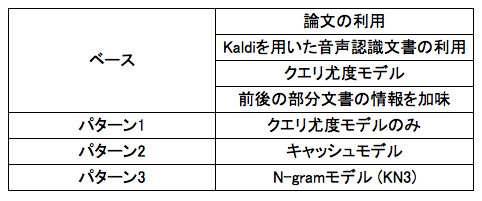
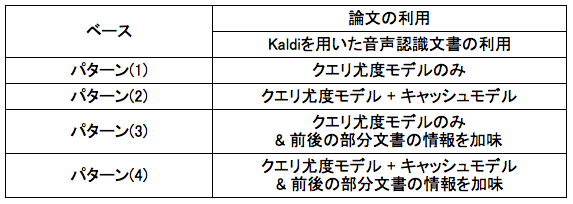
論文の目的を作成

diff --git a/chapter6.tex b/chapter6.tex
@@ -4,35 +4,29 @@
 \chapter{結論} 
 \section{まとめ}
 本研究では，文書検索において検索精度に影響を及ぼす要因を4つ取りあげ，それらについて分析を行った．
-まずTF-IDFにおけるTFに関しては，BM25のようにTFを文書長による正規化を行うことにより，精度を向上させることができた．
-これは文書長が長い文書は，同じ単語が複数回出現する場合が多く，TF値が過剰に高くなる問題を解決できたと言える．
-一方でlogを用いたTFの出現回数に応じた正規化は，従来のTF-IDF法とほぼ同等の性能を示したが，BM25同様に，
-文書長が短い文書を正解とするクエリにおいて，精度が高くなる傾向にあった．
 
-word2vecを用いた文書検索法は，従来法のTF-IDFに精度では劣ったが，一部のクエリにおいてTF-IDFを大きく上回る精度を示した．
-これは，今回のword2vecの手法では，単語の意味的情報を文書検索に活かしきれていないが，
-単語ベクトルから文書ベクトルに圧縮する手法を工夫することで，TF-IDFの精度を大きく改善する可能性があると言える．
-また，TF-IDFとword2vecを用いた単語の意味的情報を加味した文書検索法を組み合わせることで，更なる精度の向上を図ることができると考えられる．
+まず，音声認識精度と検索精度に関しては，従来から使用しているJuliusによる音声認識結果より，高性能な音声認識システムであるKaldiを用いた音声認識結果を用いたときの方が，検索精度が上昇する事が確認できた．
 
-また部分文書検索の際に文書全体の情報を加味することは，精度を大幅に向上することを確認した．
-今回のSpokenQuery\&Docは，1つのクエリに対する正解文書が，1つの全体文書に固まっていることが多かったため，
-特に効果が大きかったと考えられる．
-今回は重みパラメータ$\alpha$が0.9の時に最大値を取ったが，この値は検索対象文書やタスクによって異なると考えられる．
+クエリの関連文書を用いたクエリ尤度モデルの拡張では，論文を用いたときに，MAP値の向上が見られた．しかし，Web文書を用いたときは，MAP値にあまり変化が見られなかった．これは，Web文書がNTCIR11のクエリに対して，スムージングを行なえなかったためであると推察できる．論文を用いると，専門単語も広く言語モデルとして含められるため，スムージングできる可能性が高くなり，MAP値が上昇したのだと考えられる．
 
-最後に音声文書検索の際に音声認識誤りを棄却する場合は，検索に有用な語を誤って棄却した際に，精度が劣化してしまうことが判明した．
-これは音声認識誤り語の棄却は成功しているが，同時に検索に有用な語を切り捨ててしまっていることが問題であった．
-一方で本研究では，$sumPMI$が負の単語を認識誤り単語として棄却しているが，この閾値を変化させることで，
-検索に重要な語を残しつつ，認識誤り単語を棄却できる可能性があると言える．
+次に，前後の部分文書の情報の加味では，精度を大幅に向上することを確認した．今回のSpokenQuery\&Docは，1つのクエリに対する正解文書が，1箇所に固まっていることが多かったため，特に効果が大きかったと考えられる．
+
+また，
+
+最後に
 
 \section{今後の課題}
-今後の課題としてまず，単語の意味的情報を，検索精度が向上するように従来の検索法に組み合わせることが挙げられる．
-word2vecを用いた文書検索法は，TF-IDFの検索精度が高くないクエリにおいて大きく精度を向上させる傾向があったため，
-互いの欠点を補い合うような組み合わせ方をすることで，精度向上に繋がるのではないかと考えられる．
+今後の課題としてまず，ディリクレスムージング時のパラメータの設定があげられる．今回は人手で調整し，MAP値が高くなる値を設定したが，今後は尤度関数を設定し，最適化することによりパラメータを調節したい．
 
-音声認識誤りの棄却において，棄却の閾値を変化させた場合にどのように精度が変化するのかを確認しなくてはならない．
-検索に有用な語を棄却してしまったため，閾値を負に設定することで，棄却の厳しさを緩和させることができる．
-また$sumPMI$が負になりやすい語に，何かしらの傾向が見られないか調査することで，検索に有用な語を棄却する問題を解決できると期待できる．
+TODO: その他, RNNとかKNが上手く行ってないところ，論文の精度が向上しないところ、キャッシュモデルとスライド統合が競合してしまっているところ
 
-最後に，本研究で取り上げた手法を複数組み合わせることで，検索精度がどのように変化するか確認することが重要である．
-本研究では要素を1つ1つ取り上げ，それぞれを独立に実験した．
-一方でこれらの手法は組み合わせることができる．これらの手法を組み合わせることで，更なる精度の向上が期待できる．
+% 単語の意味的情報を，検索精度が向上するように従来の検索法に組み合わせることが挙げられる． word2vecを用いた文書検索法は，TF-IDFの検索精度が高くないクエリにおいて大きく精度を向上させる傾向があったため，
+% 互いの欠点を補い合うような組み合わせ方をすることで，精度向上に繋がるのではないかと考えられる．
+
+% 音声認識誤りの棄却において，棄却の閾値を変化させた場合にどのように精度が変化するのかを確認しなくてはならない．
+% 検索に有用な語を棄却してしまったため，閾値を負に設定することで，棄却の厳しさを緩和させることができる．
+% また$sumPMI$が負になりやすい語に，何かしらの傾向が見られないか調査することで，検索に有用な語を棄却する問題を解決できると期待できる．
+
+% 最後に，本研究で取り上げた手法を複数組み合わせることで，検索精度がどのように変化するか確認することが重要である．
+% 本研究では要素を1つ1つ取り上げ，それぞれを独立に実験した．
+% 一方でこれらの手法は組み合わせることができる．これらの手法を組み合わせることで，更なる精度の向上が期待できる．

diff --git a/thanks.tex b/thanks.tex
@@ -2,39 +2,39 @@
 % 上記のことを満たしながら，目次は出す #-> \addcontentsline
 \chapter*{謝辞}
 \addcontentsline{toc}{chapter}{謝辞}
-本稿をまとめるにあたり，多くの方々のお世話になりました．以下に感謝の意を表します．\\
+% 本稿をまとめるにあたり，多くの方々のお世話になりました．以下に感謝の意を表します．\\
 
-% 先生方
-本研究のテーマを与えてくださり，温かいご指導を賜った，速水 悟教授，田村 哲嗣助教に深く感謝致します．
-速水 悟教授には，研究の方針に関して普段から厳しく，かつ的確なご指導を頂きました．
-田村 哲嗣助教には，研究の方針はもちろんのこと，研究の進捗に気を配って頂きました．
-お二人のバックアップがなければ，本稿をまとめられることはありませんでした．\\
+% % 先生方
+% 本研究のテーマを与えてくださり，温かいご指導を賜った，速水 悟教授，田村 哲嗣助教に深く感謝致します．
+% 速水 悟教授には，研究の方針に関して普段から厳しく，かつ的確なご指導を頂きました．
+% 田村 哲嗣助教には，研究の方針はもちろんのこと，研究の進捗に気を配って頂きました．
+% お二人のバックアップがなければ，本稿をまとめられることはありませんでした．\\
 
-% 研究に深く関わってくれた人
-次に研究の過程で，度々議論を交わし意見を頂きました竹原 正矩氏，川\UTF{7028} 徹也氏，田口 拓明氏，中嶋 航大氏に感謝の意を表します．
-皆様には先生方とのミーティングの合間に，研究の結果について深く議論を交わし，多くのアドバイスを頂きました．
-特にNTCIRプロジェクトのタスク参加者として実験プログラムの開発，及び修正を手伝い，実験の協力をして頂きました田口 拓明氏，
-同じく実験の協力をして頂きました中嶋 航大氏には，より一層の感謝の意を表します．
-% 長谷川先輩
-また音声文書検索の研究の先駆者であるOBの長谷川 貴一氏には，多忙の中研究室にお越し頂き，
-文書検索に関する多くのアドバイスを頂きました．ここに感謝の意を表します．\\
+% % 研究に深く関わってくれた人
+% 次に研究の過程で，度々議論を交わし意見を頂きました竹原 正矩氏，川\UTF{7028} 徹也氏，田口 拓明氏，中嶋 航大氏に感謝の意を表します．
+% 皆様には先生方とのミーティングの合間に，研究の結果について深く議論を交わし，多くのアドバイスを頂きました．
+% 特にNTCIRプロジェクトのタスク参加者として実験プログラムの開発，及び修正を手伝い，実験の協力をして頂きました田口 拓明氏，
+% 同じく実験の協力をして頂きました中嶋 航大氏には，より一層の感謝の意を表します．
+% % 長谷川先輩
+% また音声文書検索の研究の先駆者であるOBの長谷川 貴一氏には，多忙の中研究室にお越し頂き，
+% 文書検索に関する多くのアドバイスを頂きました．ここに感謝の意を表します．\\
 
-% 研究室5階メンバー
-速水・田村研究室E522のメンバーの
-森長 夕貴氏，臼田 寛明氏，加島 卓磨氏，田口 拓明氏，絹田 卓也氏，井端 ひかり氏，葛谷 恵美氏，中嶋 航大氏には心より感謝致します．
-出来のいい先輩ではありませんでしたが，本稿をまとめられるのは皆様の支えがあるからこそと認識しています．\\
-また同じ速水・田村研究室の現役の学生である，
-竹原 正矩氏，
-宇野 太久哉氏，河\UTF{FA11} 卓也氏，川\UTF{7028} 徹也氏，世古 拓海氏， 川嶋 大義氏，野尻 弘也氏，
-鵜飼 和渡氏，廣瀬 彩恵氏，宮川 加奈子氏には，週二回のゼミで研究に対して意見を頂いたのみならず，
-普段の研究活動においても多くのご支援を頂きました．
-ここに謝意を示します．\\
+% % 研究室5階メンバー
+% 速水・田村研究室E522のメンバーの
+% 森長 夕貴氏，臼田 寛明氏，加島 卓磨氏，田口 拓明氏，絹田 卓也氏，井端 ひかり氏，葛谷 恵美氏，中嶋 航大氏には心より感謝致します．
+% 出来のいい先輩ではありませんでしたが，本稿をまとめられるのは皆様の支えがあるからこそと認識しています．\\
+% また同じ速水・田村研究室の現役の学生である，
+% 竹原 正矩氏，
+% 宇野 太久哉氏，河\UTF{FA11} 卓也氏，川\UTF{7028} 徹也氏，世古 拓海氏， 川嶋 大義氏，野尻 弘也氏，
+% 鵜飼 和渡氏，廣瀬 彩恵氏，宮川 加奈子氏には，週二回のゼミで研究に対して意見を頂いたのみならず，
+% 普段の研究活動においても多くのご支援を頂きました．
+% ここに謝意を示します．\\
 
-% 秋葉先生，南條先生
-豊橋技術科学大学の秋葉 友良先生には，NTCIR11 SpokenQuery\&Docのタスクにおいて貴重なテストコレクションを頂いたのみならず，
-NTCIR11 カンファレンスの場において貴重な意見を頂きました．
-また同様に龍谷大学の南條 浩輝先生とは，NTCIR11 カンファレンスの場において深い議論を交わし合いました．
-お二人に感謝致します．\\
+% % 秋葉先生，南條先生
+% 豊橋技術科学大学の秋葉 友良先生には，NTCIR11 SpokenQuery\&Docのタスクにおいて貴重なテストコレクションを頂いたのみならず，
+% NTCIR11 カンファレンスの場において貴重な意見を頂きました．
+% また同様に龍谷大学の南條 浩輝先生とは，NTCIR11 カンファレンスの場において深い議論を交わし合いました．
+% お二人に感謝致します．\\
 
 % ソフトウェア開発
 % 最後に，文書検索のシステム構築にあたり，形態素解析エンジンの部分には

diff --git a/recognise_method.tex b/recognise_method.tex
@@ -8,13 +8,12 @@
 
 % 参考: http://www.ar.media.kyoto-u.ac.jp/lab/project/paper/RI-HIS09.pdf
 \section{Julius}
-Juliusは大語彙連続音声認識を実行するソフトウェアである．これまでの音声認識の研究で培われてきたアルゴリズムや計算効率化手法をおよそ実装しており，高精度かつ効率よく認識処理を行うことができる．
-juliusの最も大きな特徴は汎用性・可搬性にある．音響モデルや言語モデルの仕様は標準的なフォーマットを採用しており，置き換えたり修正したりすることが容易である．これにより，大語彙のディクテーションから小語彙の数字認識まで，様々な使用環境や目的に応じたシステムを構築することが簡単にできる．また言語モデルも，大規模な統計モデルである単語n-gram，文パターンを人手で与える記述文法，辞書のみを用いる単語認識といったように多様な形式をサポートしており，使用環境に応じて適切なモデルを使い分けることができる．さらに，ソースコードが公開されているので，ユーザ独自の修正や拡張も可能である．
+Juliusの最も大きな特徴は汎用性・可搬性にある．音響モデルや言語モデルの仕様は標準的なフォーマットを採用しており，置き換えたり修正したりすることが容易である．これにより，大語彙のディクテーションから小語彙の数字認識まで，様々な使用環境や目的に応じたシステムを構築することが簡単にできる．また言語モデルも，大規模な統計モデルである単語n-gram，文パターンを人手で与える記述文法，辞書のみを用いる単語認識といったように多様な形式をサポートしており，使用環境に応じて適切なモデルを使い分けることができる．さらに，ソースコードが公開されているので，ユーザ独自の修正や拡張も可能である．
 
 % TODO: 参考文献 
 % 音響学会の論文参考
 \section{Kaldi}
-Kaldiはディープニューラルネットワーク(DNN)ベースの大語彙音声認識に対応した音声認識ツールキットであり，現在主に欧米において精力的に開発が進められ，音声認識研究において世界中に普及しつつある[??]Kaldiはオープンソースの音声認識ツールキットであり,C++で書かれたKaldi独自のコマンドプログラム, OpenFst等の既存ツールの自動インストーラ,各種コーパスを用いて音声認識システムの構築および認識実験を行うレシピなどにより構成されている.最新の認識技術が多く取り込まれており,高性能な認識システムの構築が可能となっている.
+Kaldiはディープニューラルネットワーク(DNN)ベースの大語彙音声認識に対応した音声認識ツールキットであり，現在主に欧米において精力的に開発が進められ，音声認識研究において世界中に普及しつつある[??]. Kaldiはオープンソースの音声認識ツールキットであり,C++で書かれたKaldi独自のコマンドプログラム, OpenFst等の既存ツールの自動インストーラ,各種コーパスを用いて音声認識システムの構築および認識実験を行うレシピなどにより構成されている.最新の認識技術が多く取り込まれており,高性能な認識システムの構築が可能となっている.
 Kaldiでは音声認識研究で用いられる主要なコーパスに対して，学習データから音声認識システムを構築し認識性能を評価するまでの全プロセスを自動化したスクリプトが用意されている．これらのスクリプトは，レシピと呼ばれている．このレシピの中に、学習・評価データとして,日本語 話し言葉コーパス(CSJ) [??] に対応した，日本語のための音声認識レシピが公開されている.このレシピは，CSJ の標準評価セットを用いた認識実験において,全評価セットの平均で90.6\%と高い認識精度を実現している. NTCIR12では、このレシピを利用し，音声認識した結果の文書を提供している．
 
 \section{評価実験}

diff --git a/integration.tex b/integration.tex
@@ -1,16 +1,8 @@
-\chapter{結果統合}
+\chapter{提案手法の統合}
 
-\section{a}
-% 有効な結果を示した
-% kaldi
-% 論文
-% キャッシュモデル or N-gram特徴量
-% 前後の部分文書の情報の加味
-% を利用して最大値を試す
+\section{提案手法}
 
-% TODO: 前章 = N章と名義した方が良い
-
-前章で検索性能に有効な結果を示した，論文の利用・Kaldiを用いた検索文書の利用・キャッシュモデルとN-gram特徴量の加味・前後の部分文書の情報を加味の手法を統合し，更なる検索精度の改善を行う．
+これまでに説明してきた手法の中で，検索性能の向上に有効な結果を示したものを統合し，検索精度の更なる向上を図る．検索性能の向上に有効な結果を示したものとして，論文の利用・Kaldiを用いた検索文書の利用・キャッシュモデル・前後の部分文書の情報を加味の手法があり，これらを統合し，検索精度の変化を分析する．
 
 \subsection{実験条件}
 実験条件を表\ref{t_ex_patern}に示す．
@@ -22,4 +14,8 @@
     \label{t_ex_patern}
 \end{table}
 
-基本的に論文の利用・Kaldiを用いた検索文書の利用・・前後の部分文書の情報を加味・クエリ尤度モデルを利用し，パターン1 クエリ尤度モデルのみ, パターン2 キャッシュモデル, パターン3 N-gramモデルを変化させたときのMAP値を算出し，分析する．また，パターン3のN-gramモデルのスムージングはKneser-Ney スムージングを利用し，N-gramのNは3とした．
+実験は，表\ref{t_condition1}と同様に，NTCIR12 SpokenQuery\&Doc Formal-run の SQSCR SGS retrieval条件で行った．
+基本的に，論文の利用とKaldiを用いた検索文書を用い，パターン(1) クエリ尤度モデルのみ, パターン(2) キャッシュモデルの2つのパターンについて，変化させたときのMAP値を算出する．
+また，2つのパターンのそれぞれに対し，前後の部分文書の情報を加味をした4パターンについて比較，分析した．
+
+% TODO: パラメータの説明もメモしといた方が良い

diff --git a/mypaper.tex b/mypaper.tex
@@ -4,20 +4,20 @@
 \renewcommand{\bibname}{発表文献}
 \begin{thebibliography}{99} % 10件以上の場合99を指定
 
-\bibitem{asj2013}
-原 謙介, 関谷 秀樹,  田村 哲嗣, 速水 悟, \\
-Web情報に基づく認識信頼度の推定とキーワード抽出, \\
-日本音響学会 春季研究発表会, 3-P-27c, pp.235-236, 2013 
+% \bibitem{asj2013}
+% 原 謙介, 関谷 秀樹,  田村 哲嗣, 速水 悟, \\
+% Web情報に基づく認識信頼度の推定とキーワード抽出, \\
+% 日本音響学会 春季研究発表会, 3-P-27c, pp.235-236, 2013 
 
-\bibitem{apsipa}
-K. Hara, H. Sekiya, T. Kawase. S. Tamura, S. Hayamizu, \\
-Confidence estimation and keyword extraction from speech recognition result based on Web information, \\
-In proceedings of APSIPA 2013
+% \bibitem{apsipa}
+% K. Hara, H. Sekiya, T. Kawase. S. Tamura, S. Hayamizu, \\
+% Confidence estimation and keyword extraction from speech recognition result based on Web information, \\
+% In proceedings of APSIPA 2013
 
-\bibitem{ntcir}
-K. Hara, H. Taguchi, K. Nakajima, M.Takehara, S.Tamura, S.Hayamizu, \\
-Segmented spoken document retrieval using word co-occurrence information, \\
-In proceedings of NTCIR11, 2014
+% \bibitem{ntcir}
+% K. Hara, H. Taguchi, K. Nakajima, M.Takehara, S.Tamura, S.Hayamizu, \\
+% Segmented spoken document retrieval using word co-occurrence information, \\
+% In proceedings of NTCIR11, 2014
 
     
 \end{thebibliography}

diff --git a/main.tex b/main.tex
@@ -121,7 +121,7 @@
 % タイトル（ゴシック体）
 {\gt
 \vspace*{2.5zh}
-音声ドキュメント検索手法の分析と精度改善\\ %タイトル1行目
+音声ドキュメント検索手法の\\分析と精度改善\\ %タイトル1行目
 
 \vspace{5zh}
 
@@ -129,7 +129,7 @@
 \fontsize{22pt}{22pt}\selectfont % フォントサイズ2pt，行送り20pt
 
 %年月
-2018年\hspace{0.5zh}3月\\% 年月
+2018年\hspace{0.5zh}2月\\% 年月
 %所属
 \vspace{0.5zh}
 岐阜大学大学院\hspace{1zh}工学研究科\hspace{1zh}\\%
@@ -193,7 +193,7 @@
 
 
 % 実験
-\include{chapter5}
+% \include{chapter5}
 
 \include{chapter6}
 	
